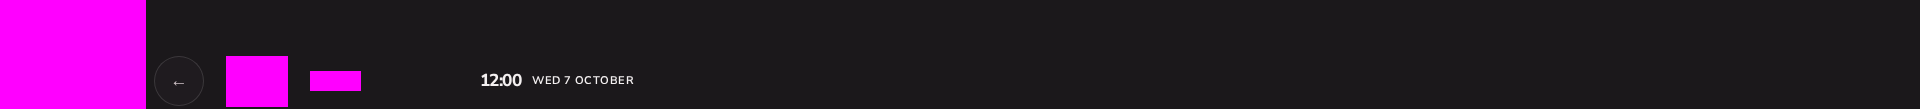
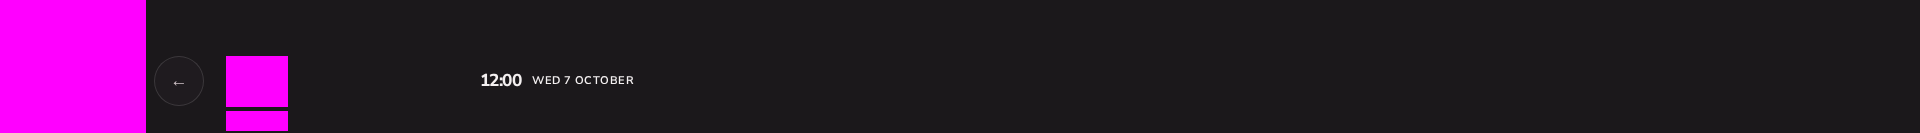
fix(web): one place for the header subtitle, under the title on every page
Layout-Change: owner request 2026-10-10, reference Settings subtitle matches other pages (owner)

diff --git a/clients/tv-web/web/src/components/shell/PageHeader.tsx b/clients/tv-web/web/src/components/shell/PageHeader.tsx
@@ -1,6 +1,5 @@
-import { useLayoutEffect, useRef, useState } from "react";
+import { useLayoutEffect, useRef } from "react";
 import type { HTMLAttributes, ReactNode, Ref } from "react";
-import { detailFitsInline } from "../../lib/pageHeaderLayout";
 import { Button, ButtonLink } from "../ui";
 import { PageActionStack, PageHeaderActions, type PageAction } from "./PageActions";
 import type { ActionIcon } from "./icons";
@@ -31,13 +30,6 @@ export interface PageHeaderProps {
   /** Extra attributes for the back control (focus hooks). */
   backProps?: HTMLAttributes<HTMLElement> & Record<`data-${string}`, string | boolean | undefined>;
 
-}
-
-/** Width of the content itself, independent of how wide its (possibly wrapped) box currently is. */
-function naturalWidth(element: HTMLElement): number {
-  const range = document.createRange();
-  range.selectNodeContents(element);
-  return range.getBoundingClientRect().width;
 }
 
 /**
@@ -79,67 +71,7 @@ export function PageHeader({
     return () => markShellPageHeader(-1);
   }, []);
   const titleRef = useRef<HTMLHeadingElement>(null);
-  const detailRef = useRef<HTMLSpanElement>(null);
   const actionsRef = useRef<HTMLDivElement>(null);
-  const [wrapped, setWrapped] = useState(false);
-
-  // Measure against the real clock and actions so the detail never renders
-  // beneath them; wrap it under the title when it does not fit. The measuring (forced layout) runs
-  // when the header's content changes or its box is resized, never merely because the page
-  // re-rendered (Library, Home and Search re-render on every selection change).
-  const measureRef = useRef<() => void>(() => undefined);
-  const lastSignatureRef = useRef<string | null>(null);
-  useLayoutEffect(() => {
-    const header = headerRef.current;
-    const detailEl = detailRef.current;
-    if (!header || !detailEl) {
-      measureRef.current = () => undefined;
-      lastSignatureRef.current = null;
-      return;
-    }
-    measureRef.current = () => {
-      const style = getComputedStyle(header);
-      const gap = parseFloat(style.columnGap) || 0;
-      const clock = document.querySelector<HTMLElement>(".app-clock");
-      const obstacles: number[] = [];
-      if (clock && getComputedStyle(clock).display !== "none") obstacles.push(clock.getBoundingClientRect().left);
-      if (actionsRef.current) obstacles.push(actionsRef.current.getBoundingClientRect().left);
-      const fits = detailFitsInline({
-        headerLeft: header.getBoundingClientRect().left,
-        backWidth: (header.firstElementChild as HTMLElement).getBoundingClientRect().width,
-        titleWidth: titleRef.current?.getBoundingClientRect().width ?? 0,
-        detailWidth: naturalWidth(detailEl),
-        gap,
-        obstacles,
-      });
-      setWrapped(!fits);
-    };
-    const signature = `${header.textContent ?? ""}|${pageActions.length}|${isDetail}`;
-    if (lastSignatureRef.current !== signature) {
-      lastSignatureRef.current = signature;
-      measureRef.current();
-    }
-  });
-
-  // One long-lived observer and resize listener for the life of the header.
-  useLayoutEffect(() => {
-    const header = headerRef.current;
-    if (!header) return;
-    let cancelled = false;
-    const measure = () => {
-      if (!cancelled) measureRef.current();
-    };
-    const observer = typeof ResizeObserver === "undefined" ? null : new ResizeObserver(measure);
-    observer?.observe(header);
-    observer?.observe(document.body);
-    window.addEventListener("resize", measure);
-    void document.fonts?.ready.then(measure);
-    return () => {
-      cancelled = true;
-      observer?.disconnect();
-      window.removeEventListener("resize", measure);
-    };
-  }, []);
 
   // Reserve the clock's column: the title stops at the shell clock (or the header's own actions) at every width, so it
   // can never run under it. Independent of the detail, which may be absent.
@@ -173,7 +105,7 @@ export function PageHeader({
     "page-header",
     isDetail ? "tv-detail-heading" : "",
     hasActions ? "has-actions" : "",
-    wrapped && detail ? "is-detail-wrapped" : "",
+    detail ? "has-subtitle" : "",
   ]
     .filter(Boolean)
     .join(" ");
@@ -206,7 +138,7 @@ export function PageHeader({
       <div className="page-header-title-block">
         <h1 ref={titleRef}>{title}</h1>
         {detail ? (
-          <span ref={detailRef} className="page-header-detail page-subtitle">
+          <span className="page-header-detail page-subtitle">
             {detail}
           </span>
         ) : null}

diff --git a/clients/tv-web/web/src/styles/page-layout.css b/clients/tv-web/web/src/styles/page-layout.css
@@ -404,26 +404,15 @@ html:is([data-platform="android-tv"], [data-platform="tv-vidaa"]) .tv-page-back 
   align-self: center;
 }
 
-.tv-library-heading.has-actions > .page-header-title-block > .page-header-detail {
-  align-self: center;
-  min-height: var(--page-control-height);
-  display: flex;
-  align-items: center;
-}
-
-/* Header detail that cannot fit beside the title wraps beneath it with a horizontal rule. */
-.tv-library-heading > .page-header-title-block > .page-header-detail {
-  white-space: nowrap;
-}
-
-/* Wrapped (detail under the title): Back stays level with the title line at the top of the block, never centred on the
-   taller block, so extra header content can no longer push it down. */
-.tv-library-heading.is-detail-wrapped > .tv-page-back,
-.tv-library-heading.is-detail-wrapped > .page-header-title-block > h1 {
+/* The subtitle always sits directly under the title, left-aligned with it, on every page (owner rule 2026-10-10: one
+   subtitle, one place). Back stays level with the title line at the top of the block, never centred on the taller
+   block, so the subtitle can never push it down. */
+.tv-library-heading.has-subtitle > .tv-page-back,
+.tv-library-heading.has-subtitle > .page-header-title-block > h1 {
   align-self: flex-start;
 }
 
-.tv-library-heading.is-detail-wrapped {
+.tv-library-heading.has-subtitle {
   right: var(--page-end);
   align-items: flex-start;
 }
@@ -432,8 +421,8 @@ html:is([data-platform="android-tv"], [data-platform="tv-vidaa"]) .tv-page-back 
   display: contents;
 }
 
-/* Wrapped: title over detail in a column exactly as wide as the wider of the two, so the rule matches it. */
-.tv-library-heading.is-detail-wrapped > .page-header-title-block {
+/* Title over subtitle in one column. */
+.tv-library-heading.has-subtitle > .page-header-title-block {
   display: flex;
   flex-direction: column;
   align-items: stretch;
@@ -442,7 +431,7 @@ html:is([data-platform="android-tv"], [data-platform="tv-vidaa"]) .tv-page-back 
   gap: 0.35rem;
 }
 
-.tv-library-heading.is-detail-wrapped > .page-header-title-block > .page-header-detail {
+.tv-library-heading.has-subtitle > .page-header-title-block > .page-header-detail {
   max-width: none;
   margin: 0;
 }

diff --git a/clients/tv-web/web/src/components/shell/subtitleStyle.test.tsx b/clients/tv-web/web/src/components/shell/subtitleStyle.test.tsx
@@ -27,6 +27,17 @@ describe("one small subtitle style", () => {
     }
   });
 
+  it("puts the subtitle in one place on every page: under the title, never beside it", () => {
+    const markup = html(<PageHeader title="Preferences" detail="Appearance" back={back} />);
+    expect(markup).toContain("has-subtitle");
+    expect(markup).not.toContain("is-detail-wrapped");
+    expect(html(<PageHeader title="Movies" back={back} />)).not.toContain("has-subtitle");
+    const block = rule(layout, ".tv-library-heading.has-subtitle > .page-header-title-block");
+    expect(block).toContain("flex-direction: column");
+    expect(rule(layout, ".tv-library-heading.has-subtitle")).toContain("align-items: flex-start");
+    expect(layout).not.toContain("is-detail-wrapped");
+  });
+
   it("shares the media-page kicker declarations: one rule serves .page-subtitle, .tv-provider and .tv-detail-kicker", () => {
     const shared = /(?:^|\n)\.page-subtitle,\s*\.tv-provider,\s*\.tv-detail-kicker\s*\{([^}]*)\}/.exec(global)?.[1] ?? "";
     expect(shared).toContain("color: var(--brand-ink)");

diff --git a/clients/tv-web/web/src/pages/settings/Index.test.tsx b/clients/tv-web/web/src/pages/settings/Index.test.tsx
@@ -68,7 +68,7 @@ describe("SettingsIndexPage", () => {
     const markup = renderSettingsRoute("/settings");
 
     expect(markup).toContain('class="settings-options-list"');
-    expect(markup).toContain('class="tv-library-heading page-header"');
+    expect(markup).toContain('class="tv-library-heading page-header has-subtitle"');
     expect(markup).toContain(
       'class="tv-library tv-directory settings-page settings-workspace-page settings-index-route"'
     );

diff --git a/tasks.d/9947.md b/tasks.d/9947.md
@@ -1,0 +1,2 @@
+section: Web follow-ups (2026-10-10)
+| 9947 | Web: Settings header subtitle doesn't match other pages | in progress | subtitle-style worker | Owner, on live: the Settings header subtitle does not match the other pages. Live computed typography was identical everywhere; the difference was place: pages with a short title showed the subtitle beside the title, long-title pages (Settings, film) wrapped it under the title. Fix in the shared header: the subtitle always sits under the title, left-aligned with it, the same distance below, Back level with the title; the inline/wrapped measuring is removed. `subtitle-style-e2e` now compares place on every page and every Settings section, and can run on live with `--device-test`. ETA 2026-10-10 13:30 ICT. |

diff --git a/changelog.d/web-subtitle-one-place.changed.md b/changelog.d/web-subtitle-one-place.changed.md
@@ -1,0 +1,1 @@
+- Web: the page header subtitle always sits directly under the title, on every page including Settings and its sections; it no longer jumps beside the title on pages with a short title.
